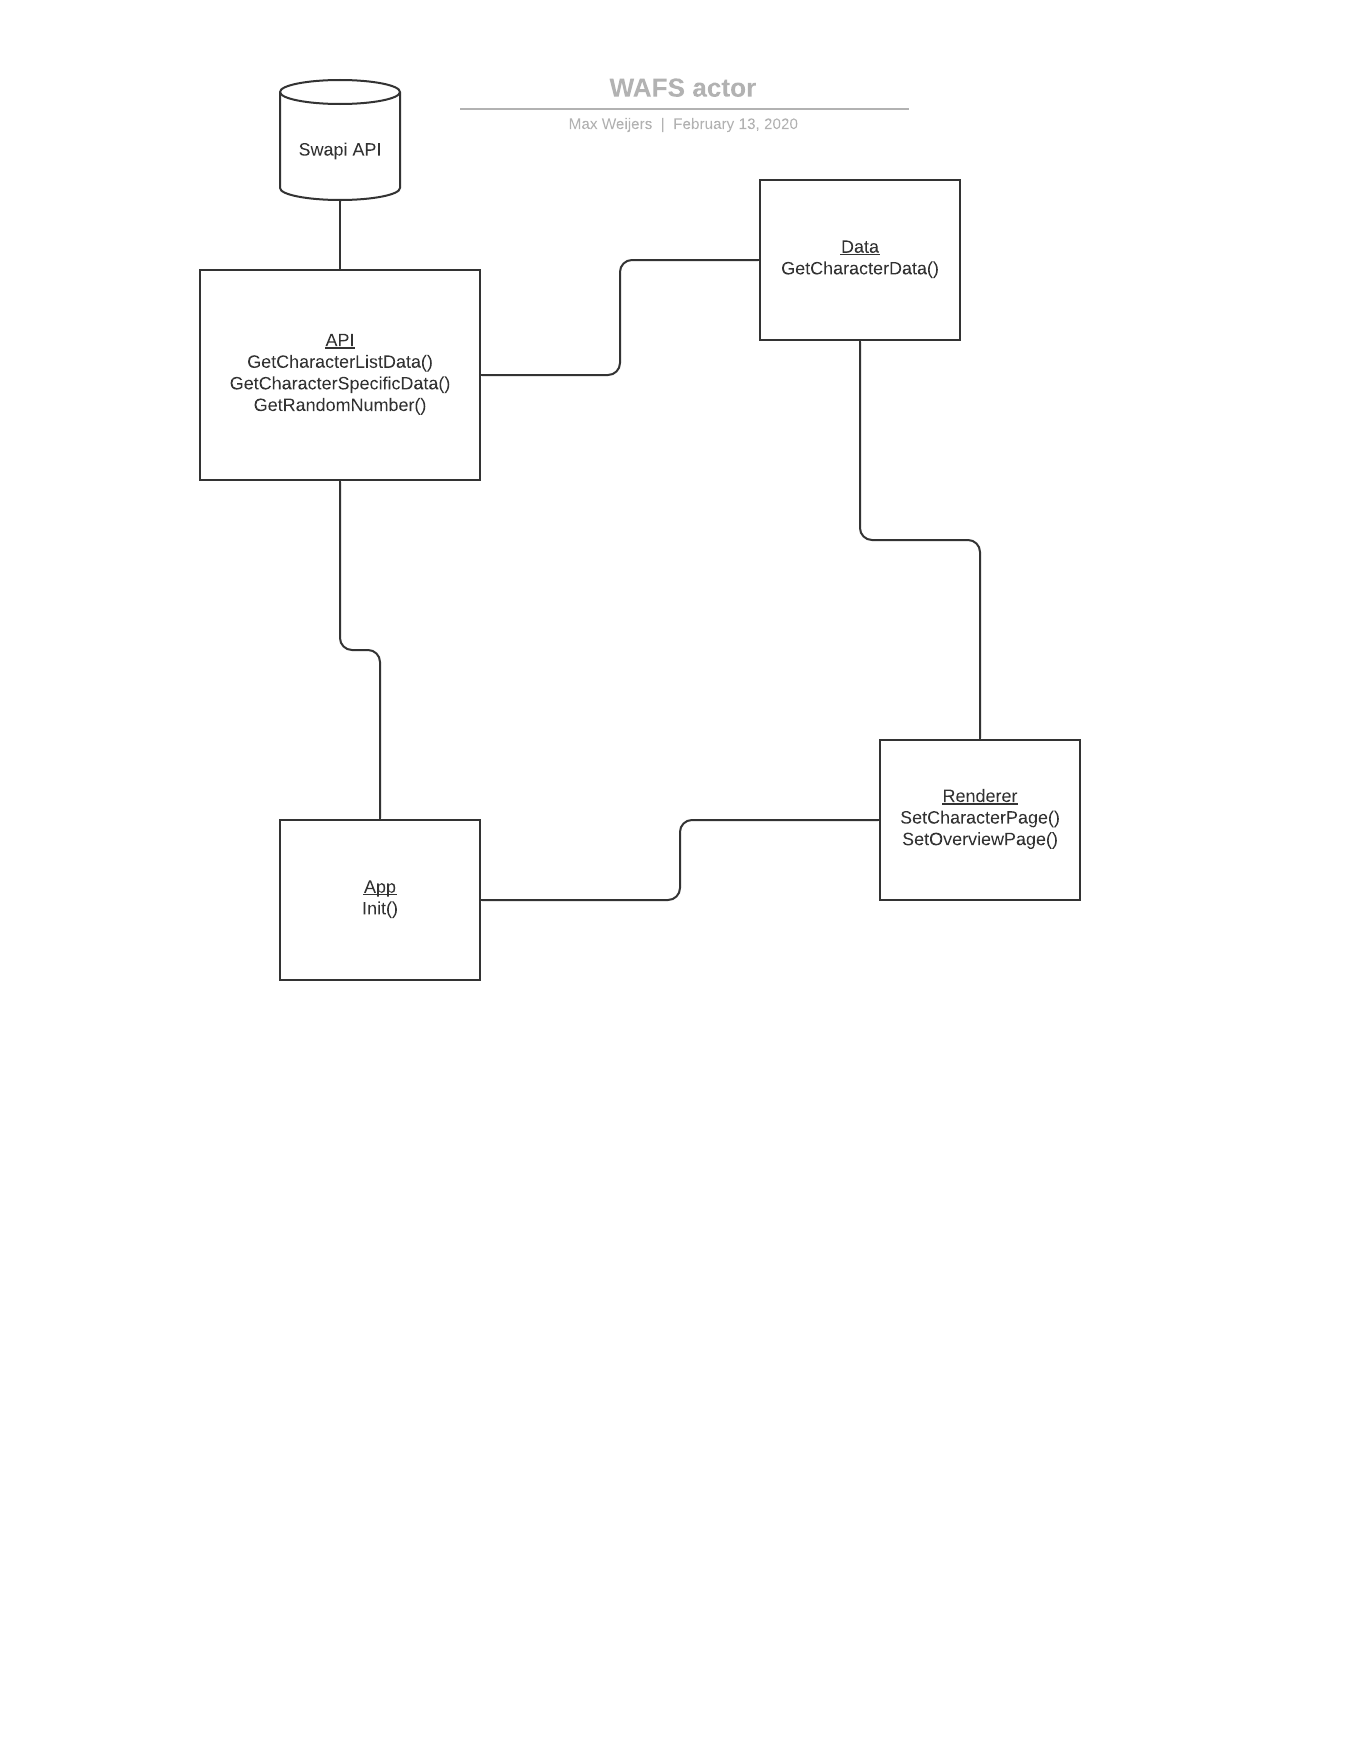
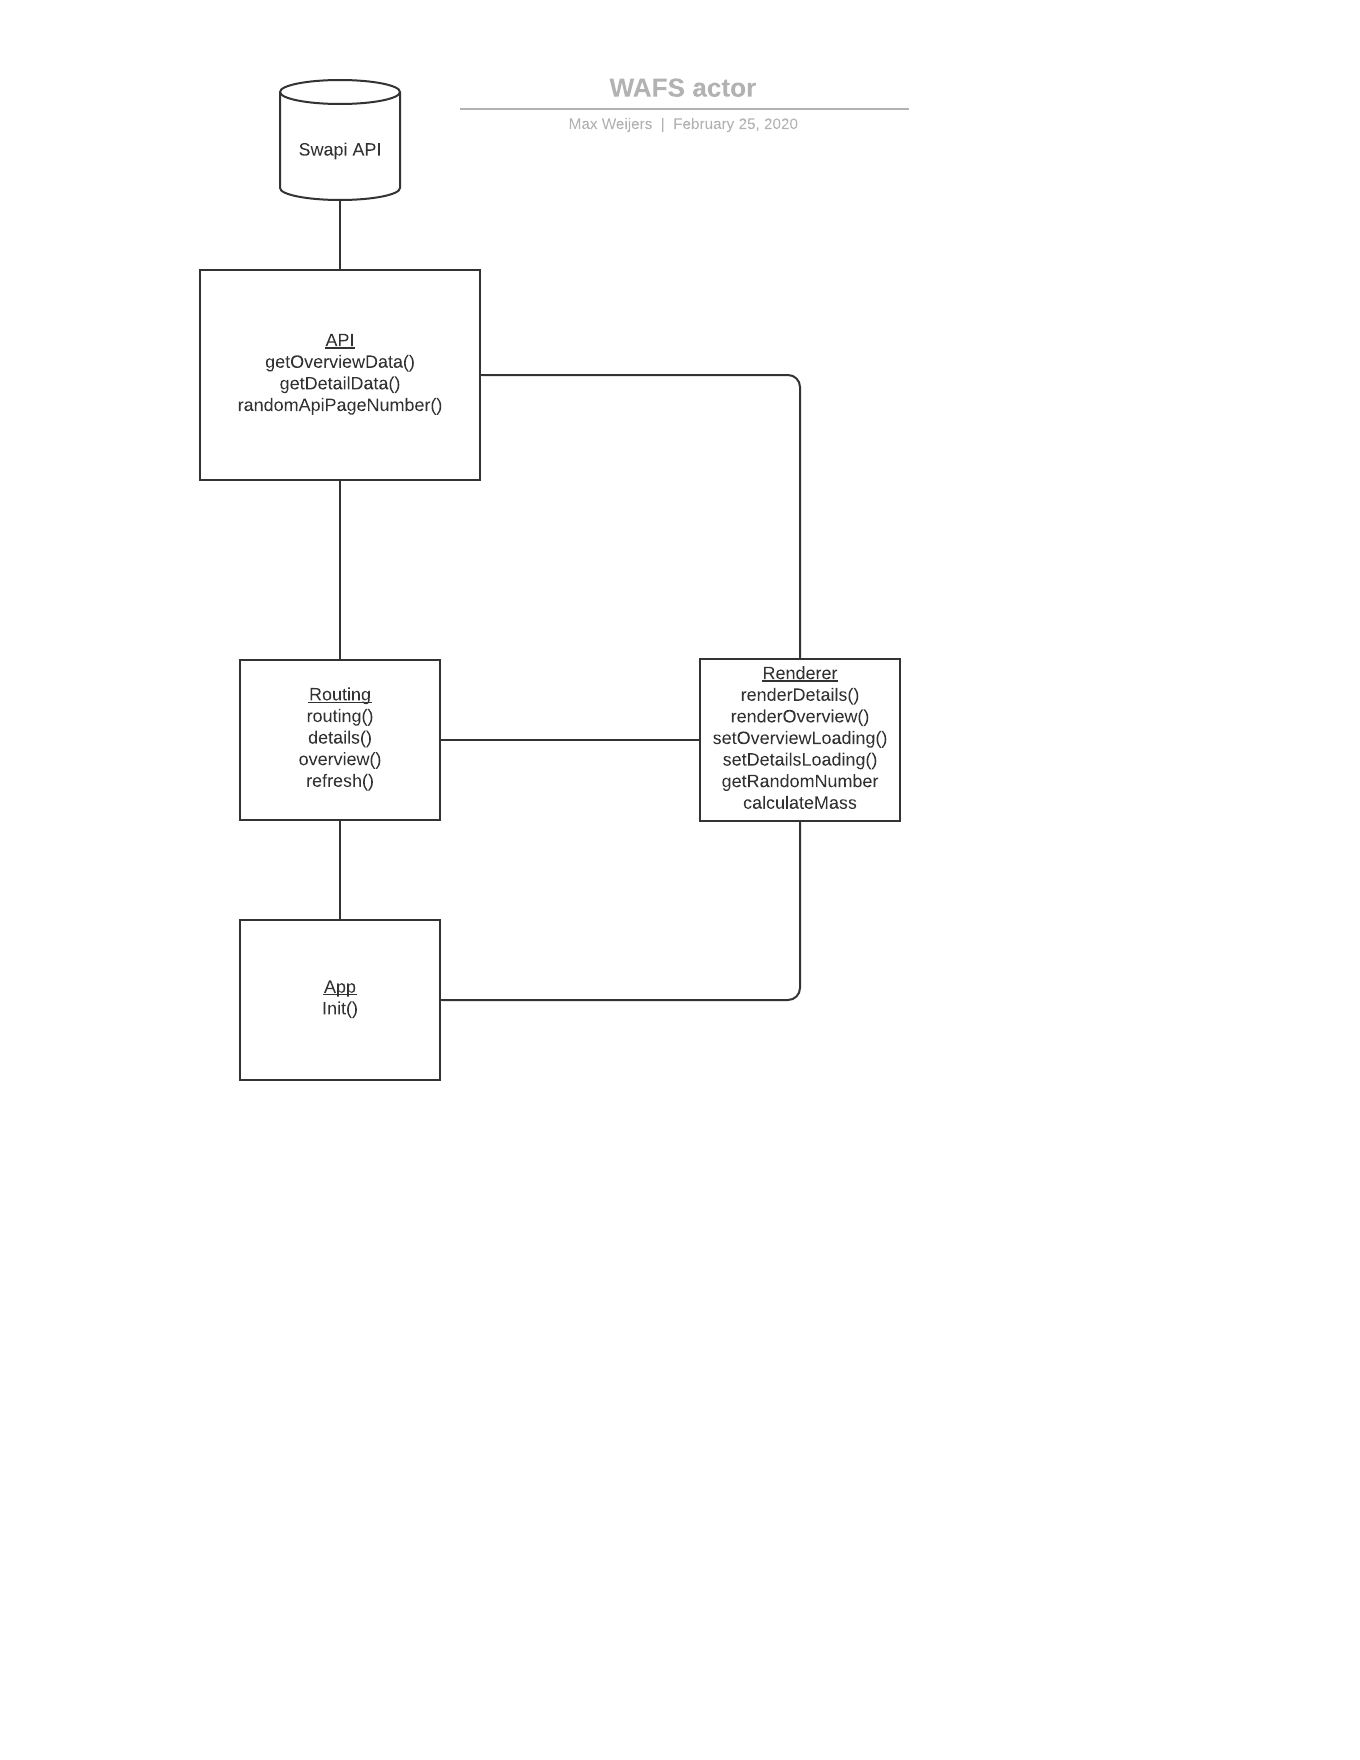
comments, actor, interaction

diff --git a/docs/js/modules/api.js b/docs/js/modules/api.js
@@ -1,5 +1,6 @@
 import {renderDetails, renderOverview} from './render.js'
 
+//api info
 const urlBase = 'https://swapi.co/api';
 const urlExtensionCategory = '/people/';
 const urlPageExtension = '?page='
@@ -8,7 +9,7 @@ const urlSearchExtension = '?search='
 const numberOfPages = 9;
 
 export async function getOverviewData(){
-    await fetch(urlBase + urlExtensionCategory + urlPageExtension + randomAPIPage(numberOfPages))
+    await fetch(urlBase + urlExtensionCategory + urlPageExtension + randomAPIPageNumber(numberOfPages))
         .then((response) => {                
             //handle client error with fetch
             if(response.ok) {
@@ -47,8 +48,8 @@ export async function getDetailData(hash){
     });  
 }
 
-//get a random page from the API
-function randomAPIPage(maxNumberPages){
+//get a random number to use in search for page
+function randomAPIPageNumber(maxNumberPages){
      const randomPageNumber = Math.floor((Math.random() * maxNumberPages) + 1);
 
     return randomPageNumber;

diff --git a/docs/js/modules/render.js b/docs/js/modules/render.js
@@ -54,6 +54,7 @@ export function renderOverview(json){
     Transparency.render(document.getElementById('overview'), data);
 }
 
+//give loading info in the overview page
 export function setOverviewLoading(){
     const data = {
         a1: 'loading',
@@ -67,6 +68,7 @@ export function setOverviewLoading(){
     Transparency.render(document.getElementById('overview'), data);
 }
 
+//give loading info in the detail page
 export function setDetailLoading(){
     const data = {
         name: 'loading',

diff --git a/docs/js/modules/routing.js b/docs/js/modules/routing.js
@@ -32,6 +32,7 @@ export function overview(){
     refresh();
 }
 
+//have a separate refresh so that init works with the randomize button as well
 export function refresh(){
     const detail = document.getElementById("details");
     const overview = document.getElementById("overview");
